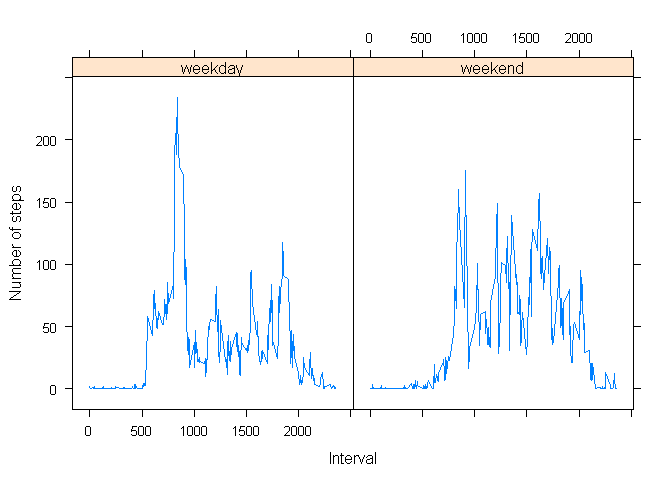
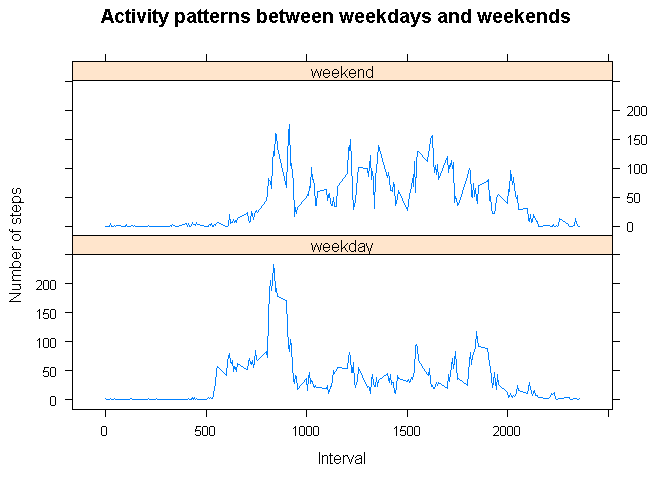
After the final review

diff --git a/PA1_template.html b/PA1_template.html
@@ -123,11 +123,12 @@ if (StepsMedian != StepsMedianwoNAs) {
 <p>The missing values imputation impacted the median calculation in -1.1886792452824</p>
 <pre class="r"><code>library(reshape2)
 library(ggplot2)
+library(grid)
 activitysum &lt;- aggregate(steps ~ date, data = activity, sum, na.action = NULL)
 activitysum[, &quot;stepswonas&quot;] &lt;- aggregate(steps ~ date, data = activitywonas, sum)$steps
 activitysum.long &lt;- melt(activitysum, id.vars=&quot;date&quot;)
-ggplot(activitysum.long, aes(date, value, fill=variable))+geom_bar(stat=&quot;identity&quot;,position=&quot;dodge&quot;) + scale_fill_discrete(name=&quot;date&quot;, labels=c(&quot;W/O Missing Values Imputation&quot;, &quot;With Missing Values Imputation&quot;)) + labs(x = &quot;Dates&quot;, y = &quot;Steps Average&quot;)</code></pre>
[1 lines of base64/hex data omitted]
+ggplot(activitysum.long, aes(date, value, fill=variable))+geom_bar(stat=&quot;identity&quot;,position=&quot;dodge&quot;) + scale_fill_discrete(name=&quot;Variable&quot;, labels=c(&quot;Original Values&quot;, &quot;NA Values Imputation&quot;)) + labs(x = &quot;Dates&quot;, y = &quot;Steps Average&quot;) + theme(legend.position=&quot;left&quot;)</code></pre>
[1 lines of base64/hex data omitted]
 </div>
 <div id="are-there-differences-in-activity-patterns-between-weekdays-and-weekends" class="section level2">
 <h2>Are there differences in activity patterns between weekdays and weekends?</h2>
@@ -135,11 +136,8 @@ ggplot(activitysum.long, aes(date, value, fill=variable))+geom_bar(stat=&quot;id
 newactivity &lt;- activity
 newactivity[, &quot;datetype&quot;] &lt;- as.factor(ifelse(grepl(&quot;Saturday|Sunday&quot;, weekdays(newactivity$date)), &quot;weekend&quot;, &quot;weekday&quot;))
 newactivitymean &lt;- aggregate(steps ~ interval + datetype, data = newactivity, mean)
-xyplot(newactivitymean$steps ~ newactivitymean$interval | newactivitymean$datetype, xlab = &quot;Interval&quot;, ylab = &quot;Number of steps&quot;, panel = function(x, y, ...) {
-     panel.xyplot(x, y, type = &quot;l&quot;, ...)
-})</code></pre>
[1 lines of base64/hex data omitted]
-<pre class="r"><code>#axis(1, xaxp=c(&quot;0000&quot;, &quot;2400&quot;, 24), las=2)</code></pre>
+xyplot(steps ~ interval | datetype, data = newactivitymean, main=&quot;Activity patterns between weekdays and weekends&quot;, xlab = &quot;Interval&quot;, ylab = &quot;Number of steps&quot;, layout=c(1,2),type=&quot;l&quot;)</code></pre>
[1 lines of base64/hex data omitted]
 </div>
 
 

diff --git a/PA1_template.md b/PA1_template.md
@@ -90,10 +90,11 @@ The missing values imputation impacted the median calculation in -1.188679245282
 ```r
 library(reshape2)
 library(ggplot2)
+library(grid)
 activitysum <- aggregate(steps ~ date, data = activity, sum, na.action = NULL)
 activitysum[, "stepswonas"] <- aggregate(steps ~ date, data = activitywonas, sum)$steps
 activitysum.long <- melt(activitysum, id.vars="date")
-ggplot(activitysum.long, aes(date, value, fill=variable))+geom_bar(stat="identity",position="dodge") + scale_fill_discrete(name="date", labels=c("W/O Missing Values Imputation", "With Missing Values Imputation")) + labs(x = "Dates", y = "Steps Average")
+ggplot(activitysum.long, aes(date, value, fill=variable))+geom_bar(stat="identity",position="dodge") + scale_fill_discrete(name="Variable", labels=c("Original Values", "NA Values Imputation")) + labs(x = "Dates", y = "Steps Average") + theme(legend.position="left")
 ```
 
 ![](PA1_template_files/figure-html/impact of imputing missing data-1.png) 
@@ -105,13 +106,7 @@ library(lattice)
 newactivity <- activity
 newactivity[, "datetype"] <- as.factor(ifelse(grepl("Saturday|Sunday", weekdays(newactivity$date)), "weekend", "weekday"))
 newactivitymean <- aggregate(steps ~ interval + datetype, data = newactivity, mean)
-xyplot(newactivitymean$steps ~ newactivitymean$interval | newactivitymean$datetype, xlab = "Interval", ylab = "Number of steps", panel = function(x, y, ...) {
-     panel.xyplot(x, y, type = "l", ...)
-})
+xyplot(steps ~ interval | datetype, data = newactivitymean, main="Activity patterns between weekdays and weekends", xlab = "Interval", ylab = "Number of steps", layout=c(1,2),type="l")
 ```
 
 ![](PA1_template_files/figure-html/comparing weekdays and weekends-1.png) 
-
-```r
-#axis(1, xaxp=c("0000", "2400", 24), las=2)
-```
